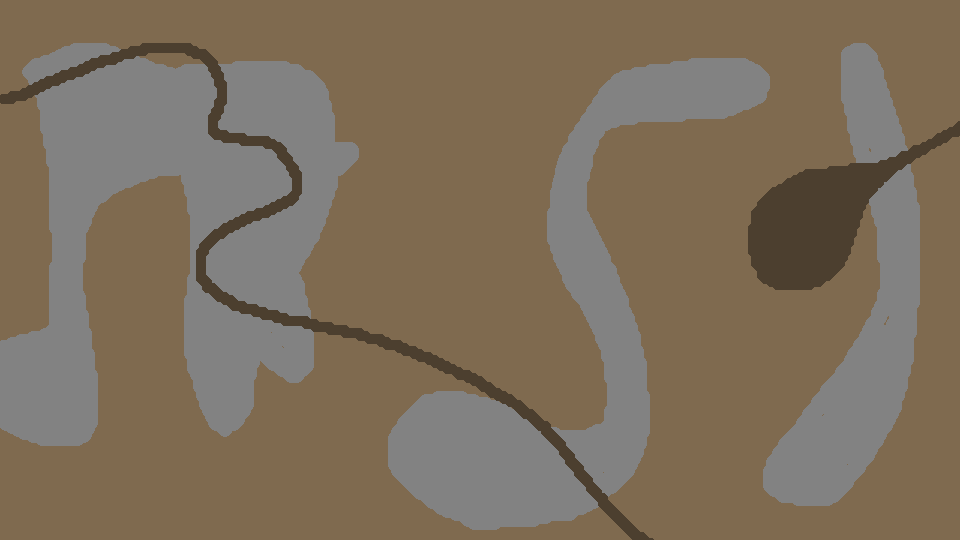
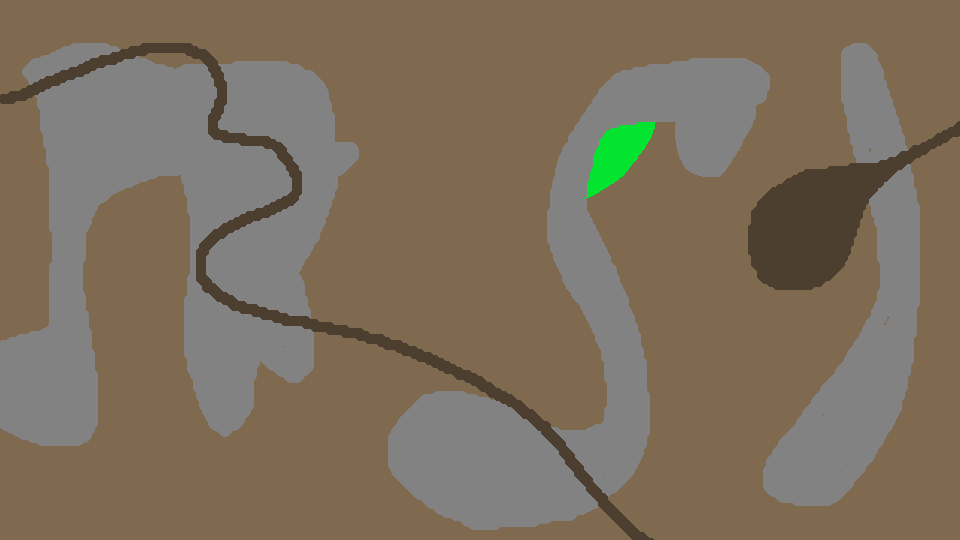
you now get points

Changed region(s): [[0.5938, 0.2074, 0.8125, 0.3556]]

diff --git a/src/mole.c b/src/mole.c
@@ -45,12 +45,31 @@ void mole_update(Mole *mole, Vector2 movement)
                               new_mole_position.x,
                               new_mole_position.y,
                               mole_width);
+
+// Points 
+    mole->points += dig.types[EMERALD]*20;
+    mole->points += dig.types[EARTH]*1;
+    mole->points += dig.types[STONE]*2;
+
+    if (dig.types[QUICK_STONE] > 0)
+    {
+        mole->speedBonus = 300;
+    }
+    if (dig.types[DIG_STONE] > 0)
+    {
+        mole->stoneEaterBonus = 600;
+    }
+
     float dig_speed_penalty = 0.0f;
     dig_speed_penalty += dig.types[EARTH] * 0.02f;
     dig_speed_penalty += dig.types[STONE] * 0.05f;
-    float max_dig_speed_penalty = 0.98f;
+    dig_speed_penalty += dig.types[EMERALD] * 0.05f;
+    dig_speed_penalty += dig.types[QUICK_STONE] * 0.05f;
+    dig_speed_penalty += dig.types[DIG_STONE] * 0.05f;
+    float max_dig_speed_penalty = mole->stoneEaterBonus>0? 0.48f: 0.98f;
     dig_speed_penalty = fminf(max_dig_speed_penalty, dig_speed_penalty);
-    movement = Vector2Scale(movement, (1.0f - dig_speed_penalty));
+    float defaultSpeed = mole->speedBonus>0?1.5f:1.0f;
+    movement = Vector2Scale(movement, (defaultSpeed - dig_speed_penalty));
     new_mole_position = Vector2Add(sprite->position, movement);
 
     dig = world_dig(&world,
@@ -58,17 +77,21 @@ void mole_update(Mole *mole, Vector2 movement)
                     new_mole_position.y,
                     mole_width);
     sprite->position = new_mole_position;
-    if (dig.types[ROOT]) {
-        if (!IsSoundPlaying(mole->snd_hurt)) {
+    if (dig.types[ROOT])
+    {
+        if (!IsSoundPlaying(mole->snd_hurt))
+        {
             PlaySound(mole->snd_hurt);
         }
         particles_emit(&mole->part_dig, 20, sprite->position.x, sprite->position.y, RED, 1.4f);
     }
     mole->health -= dig.types[ROOT];
 
-    for(int t = 0; t < TerrainTypeSize; ++t) {
+    for (int t = 0; t < TerrainTypeSize; ++t)
+    {
         int num = (int)(dig.types[t] * 0.4f);
-        if (num > 0) {
+        if (num > 0)
+        {
             particles_emit(&mole->part_dig, num, sprite->position.x, sprite->position.y, terrain_type_to_color(t), 1);
         }
     }
@@ -102,16 +125,20 @@ void mole_update(Mole *mole, Vector2 movement)
             PlaySound(mole->snd_collide);
     }
 
-    if (mole->explode_time > 0) {
+    if (mole->explode_time > 0)
+    {
         mole->explode_time -= 0.09;
-        if (mole->explode_time <= 0) {
+        if (mole->explode_time <= 0)
+        {
             mole->explode_time = 0;
         }
         float radius = sin(mole->explode_time) * 50;
         Dig d = world_dig(&world, sprite->position.x, sprite->position.y, radius);
-        for(int t = EARTH; t < TerrainTypeSize; ++t) {
+        for (int t = EARTH; t < TerrainTypeSize; ++t)
+        {
             int num = (int)(d.types[t] * 0.4f);
-            if (num > 0) {
+            if (num > 0)
+            {
                 particles_emit(&mole->part_dig, num, sprite->position.x, sprite->position.y, TerrainTypeToColor[t], 4);
             }
         }
@@ -163,10 +190,13 @@ void mole_draw(Mole *mole)
     particles_draw(&mole->part_dig);
 }
 
-void mole_explode(Mole* mole) {
-    if (mole->explode_time == 0) {
+void mole_explode(Mole *mole)
+{
+    if (mole->explode_time == 0)
+    {
         mole->explode_time = 3.1415f;
-        if (!IsSoundPlaying(mole->snd_explode)) {
+        if (!IsSoundPlaying(mole->snd_explode))
+        {
             PlaySound(mole->snd_explode);
         }
     }
